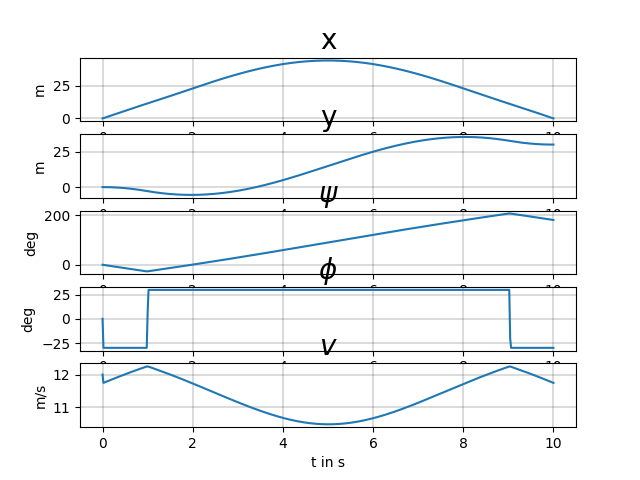
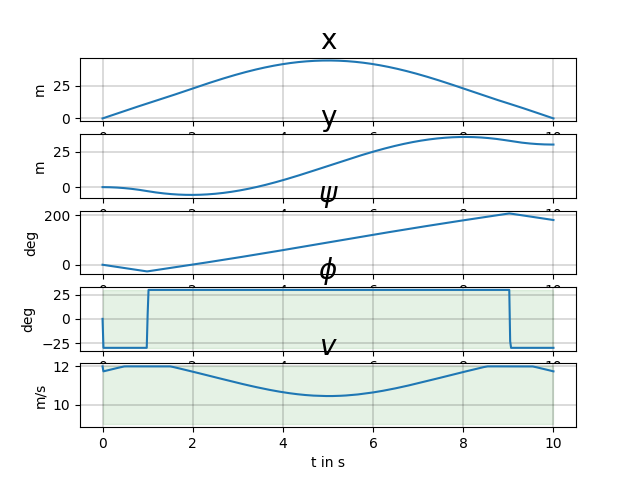
doc, planning examples

Changed region(s): [[0.0625, 0.5938, 0.9062, 0.9062]]

diff --git a/src/06_optyplan.py b/src/06_optyplan.py
@@ -242,14 +242,26 @@ def compute_or_load(_p, force_recompute=False, filename='/tmp/optyplan.npz', tol
 def plot(_p, save):
     fig, axes = plt.subplots(5, 1)
     axes[0].plot(_p.sol_time, _p.sol_x)
+    if _p.exp.x_constraint is not None:
+        p0, dx, dy = (_p.exp.t0, _p.exp.x_constraint[0]), _p.exp.t1-_p.exp.t0, _p.exp.x_constraint[1]-_p.exp.x_constraint[0]
+        axes[0].add_patch(plt.Rectangle(p0, dx, dy, color='g', alpha=0.1))
     d2p.decorate(axes[0], title='x', xlab='t in s', ylab='m', legend=None, xlim=None, ylim=None, min_yspan=None)
     axes[1].plot(_p.sol_time, _p.sol_y)
+    if _p.exp.x_constraint is not None:
+        p0, dx, dy = (_p.exp.t0, _p.exp.y_constraint[0]), _p.exp.t1-_p.exp.t0, _p.exp.y_constraint[1]-_p.exp.y_constraint[0]
+        axes[1].add_patch(plt.Rectangle(p0, dx, dy, color='g', alpha=0.1))
     d2p.decorate(axes[1], title='y', xlab='t in s', ylab='m', legend=None, xlim=None, ylim=None, min_yspan=None)
     axes[2].plot(_p.sol_time, np.rad2deg(_p.sol_psi))
     d2p.decorate(axes[2], title='$\\psi$', xlab='t in s', ylab='deg', legend=None, xlim=None, ylim=None, min_yspan=None)
     axes[3].plot(_p.sol_time, np.rad2deg(_p.sol_phi))
+    if _p.exp.phi_constraint is not None:
+        p0, dx, dy = (_p.exp.t0, np.rad2deg(_p.exp.phi_constraint[0])), _p.exp.t1-_p.exp.t0, np.rad2deg(_p.exp.phi_constraint[1]-_p.exp.phi_constraint[0])
+        axes[3].add_patch(plt.Rectangle(p0, dx, dy, color='g', alpha=0.1))
     d2p.decorate(axes[3], title='$\\phi$', xlab='t in s', ylab='deg', legend=None, xlim=None, ylim=None, min_yspan=None)
     axes[4].plot(_p.sol_time, _p.sol_v)
+    if _p.exp.v_constraint is not None:
+        p0, dx, dy = (_p.exp.t0, _p.exp.v_constraint[0]), _p.exp.t1-_p.exp.t0, _p.exp.v_constraint[1]-_p.exp.v_constraint[0]
+        axes[4].add_patch(plt.Rectangle(p0, dx, dy, color='g', alpha=0.1))
     d2p.decorate(axes[4], title='$v$', xlab='t in s', ylab='m/s', legend=None, xlim=None, ylim=None, min_yspan=0.1)
     if save is not None:
         fn = f'{save}_chrono.png'
@@ -279,6 +291,7 @@ def plot2d(_p, save):
         print(f'saved {fn}'); plt.savefig(fn)
 
 class exp_0:
+    tol, max_iter = 1e-5, 1500
     wind = WindField(w=[0.,0.])
     cost = CostAirVel(12.)
     obstacles = ( )
@@ -287,7 +300,7 @@ class exp_0:
     t1, p1 = 10., ( 0., 30., np.pi,    0., 10.)    # final position
     x_constraint, y_constraint = None, None
     phi_constraint = (-np.deg2rad(30.), np.deg2rad(30.))
-    v_constraint = (7., 20.)
+    v_constraint = (9., 12.)
     hz = 50.
     name = 'exp0'
     
@@ -310,12 +323,16 @@ class exp_2(exp_0):
     name = 'exp2'
 
 class exp_3(exp_0):
+    tol, max_iter = 1e-5, 3000
     obstacles = ((33, 0, 15), (23, 30, 12))
     cost = CostComposit(obstacles, vsp=14., kobs=0.1, kvel=2., kbank=2.)
-    phi_constraint = (-np.deg2rad(40.), np.deg2rad(40.))
-    #t1 = 14.
-    y_constraint = (-10., 60.)
+    #cost = CostComposit(obstacles, vsp=12., kobs=1., kvel=1., kbank=0.5)
+    #cost = CostComposit(obstacles, vsp=14., kobs=0.2, kvel=0.1, kbank=2.)
     obj_scale = 1.e-2
+    phi_constraint = (-np.deg2rad(40.), np.deg2rad(40.))
+    v_constraint = (9., 15.)
+    #t1 = 16.
+    x_constraint, y_constraint = (-5., 60.), (-1., 51.)
     name = 'exp3'
 
 class exp_4(exp_0):
@@ -420,7 +437,7 @@ def main():
 
     _p = Planner(exp, initialize = args.force)
     print('Planner initialized')
-    compute_or_load(_p, args.force, f'./optyplan_{exp.name}.npz', tol=1e-5, max_iter=1500, initial_guess=None) # 1e-5
+    compute_or_load(_p, args.force, f'./optyplan_{exp.name}.npz', tol=exp.tol, max_iter=exp.max_iter, initial_guess=None) # 1e-5
     print('Planner ran')
     plot(_p, args.save)
     plot2d(_p, args.save)

diff --git a/docs/planning.md b/docs/planning.md
@@ -16,10 +16,23 @@ layout: default
 
 #### Example 0
 
+  * Specification of start/end position and time
+  * Bank and velocity contraints
+  * Mean velocity cost function
+
 <img src="plots/optyplan_0_2d.png" alt="" width="640">
 <img src="plots/optyplan_0_chrono.png" alt="" width="640">
 
+#### Example 3
+
+Constraints on state variables, obstacles (in cost function)
+
+<img src="plots/optyplan_3_2d.png" alt="" width="640">
+<img src="plots/optyplan_3_chrono.png" alt="" width="640">
+
 
 #### Example 7
+
+Several independant planifications
 
 <img src="plots/optyplan_1.apng" alt="" width="640">
